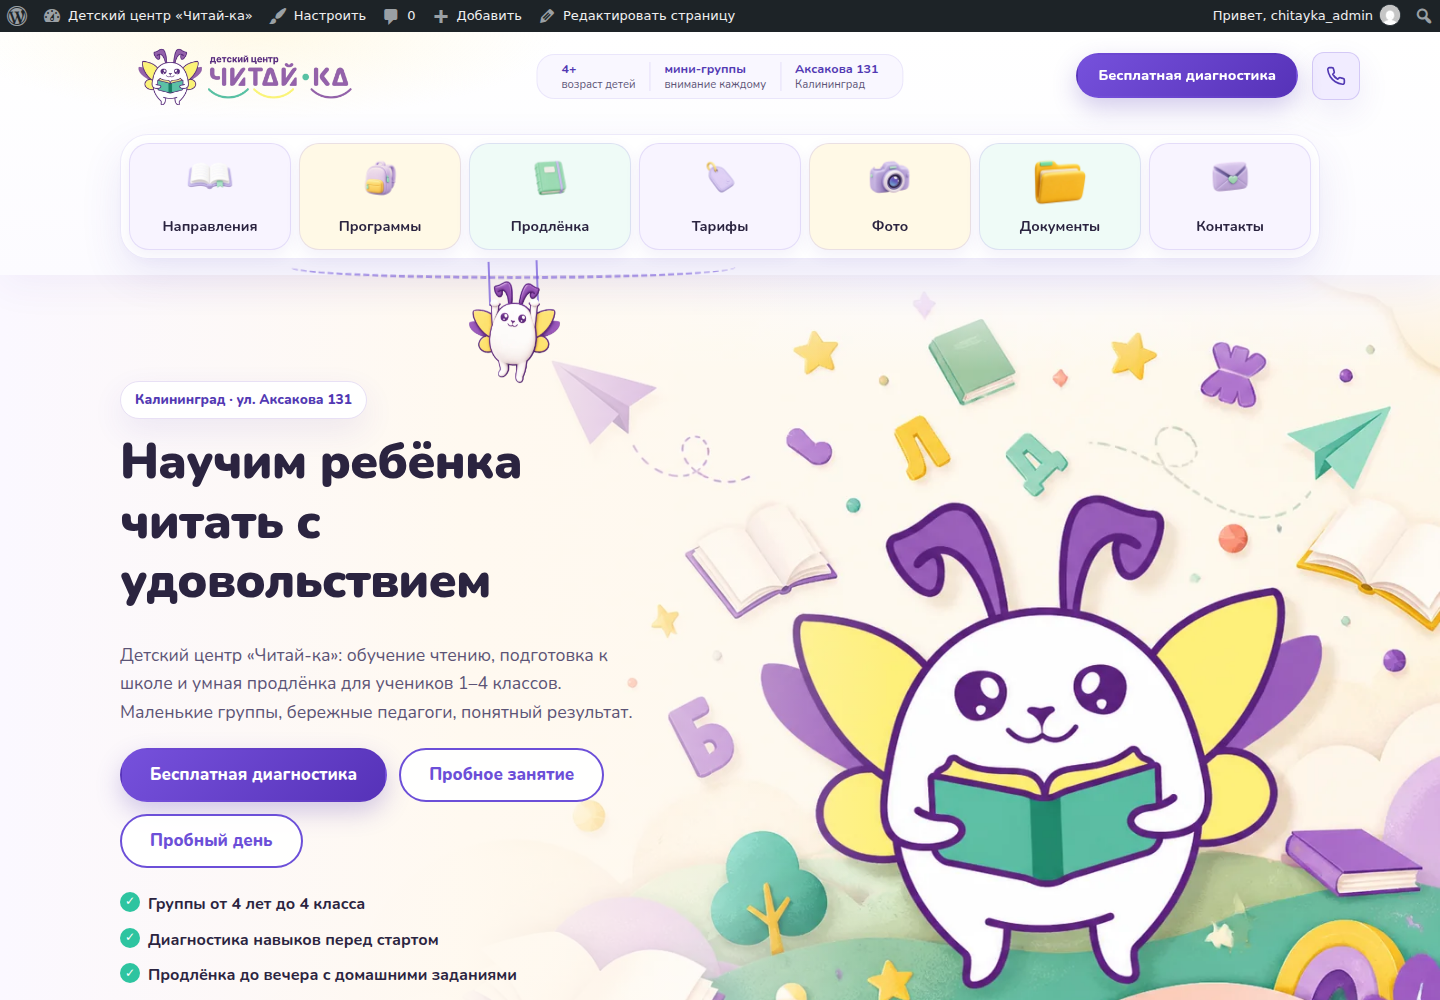
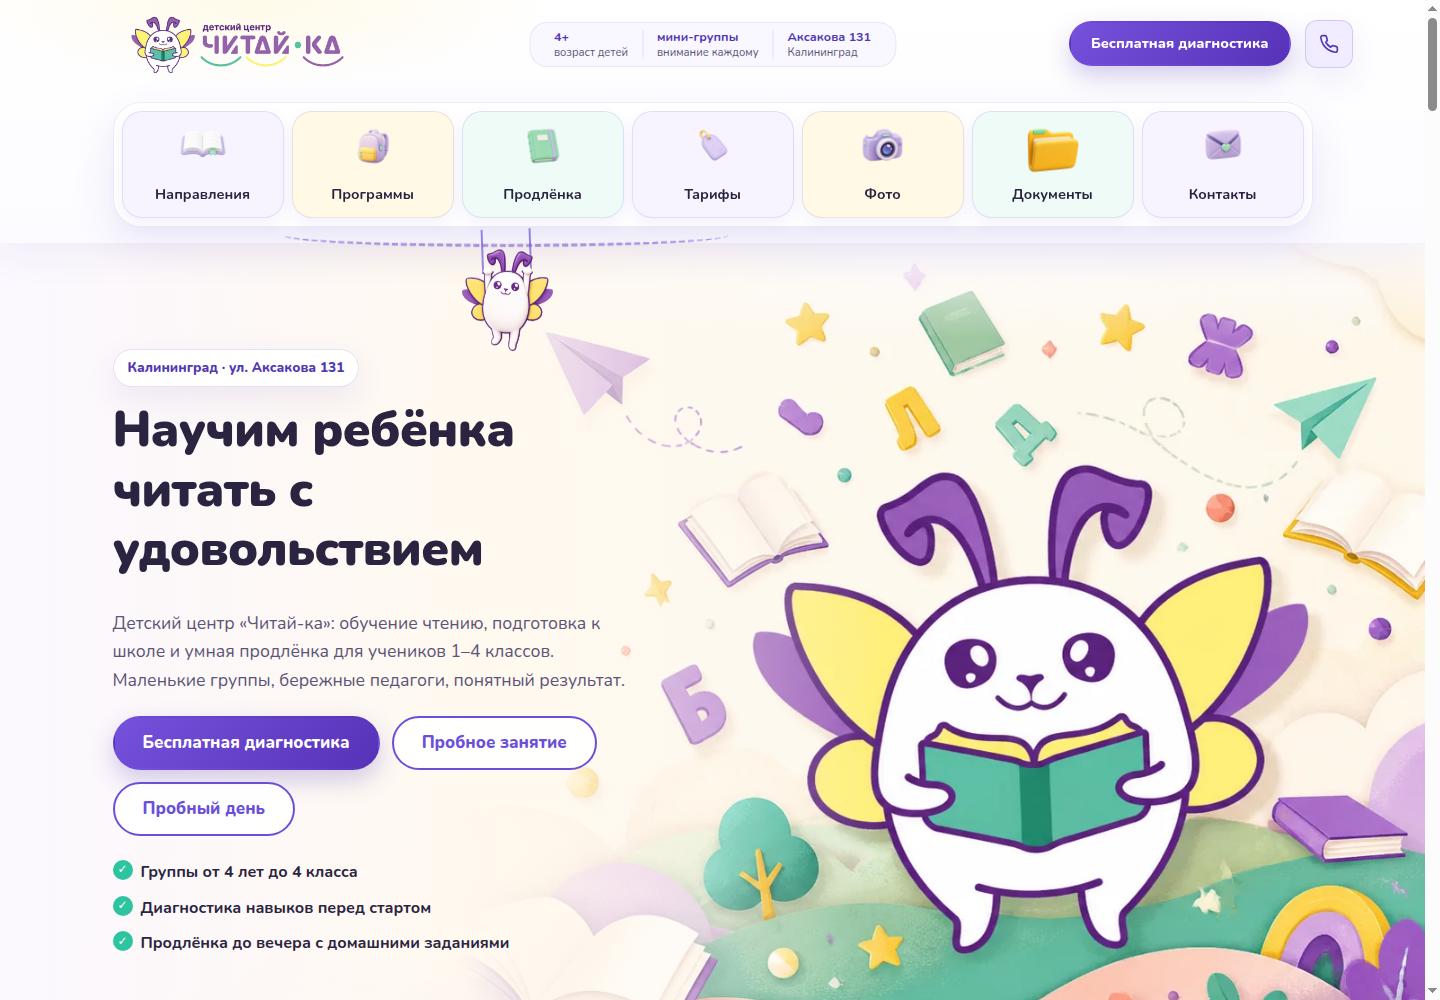
portfolio: rebuild Chitayka case images from live screens

diff --git a/portfolio-package/IMAGE_PROMPTS.md b/portfolio-package/IMAGE_PROMPTS.md
@@ -1,16 +1,66 @@
 # IMAGE_PROMPTS
 
-## Сгенерированный декоративный фон
+## Источники
 
-- Инструмент: встроенный `image_gen`.
-- Результат: `generated-brand-background.png`.
-- Роль: фоновый слой для обложки кейса; интерфейс сайта и весь текст на финальной инфографике наложены отдельно из реальных скриншотов.
+Серия пересобрана 10.09.2026 по свежим фактическим скриншотам:
 
-### Финальный prompt
+- `screenshots/01-hero-desktop.png` — production, первый экран desktop;
+- `screenshots/02-directions-desktop.png` — production, направления;
+- `screenshots/03-first-visit-desktop.png` — production, первое занятие;
+- `screenshots/05-prices-desktop.png` — production, тарифы;
+- `screenshots/06-mobile-hero.png` — production, первый экран mobile;
+- `screenshots/08-wordpress-editor.png` — реальный редактор `ЧИТАЙ-КА` в WordPress без верхней панели пользователя;
+- `screenshots/start-before.png` — подтверждённая ранняя версия сайта.
+
+Для композиционной иерархии использован референс инфографики пользователя. Тёмная палитра референса не переносилась: серия выполнена в фирменных цветах «Читай-ки».
+
+Инструмент всех четырёх кадров: встроенный `image_gen`. Интерфейсы должны оставаться узнаваемыми и фактически соответствовать исходным скриншотам; выдуманные функции и метрики запрещены.
+
+## 00-cover.png
 
 ```text
 Use case: infographic-diagram.
-Asset type: decorative background layer for a portfolio case cover about a children's education center website.
-Create a polished airy premium landscape background in the supplied mascot's friendly brand style. Preserve one small recognizable mascot at the lower-right edge reading the green book: white oval body, purple antennae and outlines, yellow-purple wings, large purple eyes. Use an ivory-to-pale-lilac gradient with soft layered hills, open books, stars, paper airplane, mint notebook and rounded translucent shapes near the outer edges. Leave the central and left 65% calm and uncluttered for later typography and real website screenshots. Refined soft 3D clay/paper illustration, subtle depth and soft shadows. Palette: deep purple, lilac, mint, warm yellow, cream, restrained coral. No text, no logo, no words, no people, no UI mockups, no watermark, no busy confetti, no dark background, no duplicated limbs.
+Asset type: portfolio case cover, 4:3 landscape, 1600×1200.
+Create a professional cover for the children's center «Читай-ка». Use the real production homepage screenshot as the dominant visual in a browser frame. Official palette: cream, white, deep purple, lilac, mint and warm yellow.
+Text: «ДЕТСКИЙ ЦЕНТР „ЧИТАЙ-КА“», «Сайт с характером и удобным управлением», «Адаптивная версия», «10 редактируемых секций», «3 сценария записи», «WordPress · PHP · HTML · CSS · JavaScript», «ИТ-Бизнес-партнер · Суязов Артем».
+No children photos, private data, invented metrics or fictional UI.
 ```
 
+## 01-start.png
+
+```text
+Use case: infographic-diagram.
+Asset type: initial-state portfolio frame, 4:3 landscape, 1600×1200.
+Use the real early-version screenshot as the dominant factual visual with callout lines to visible layout areas.
+Text: «С чего начинали», «Рабочая версия требовала единой системы», «Разрозненная композиция», «Пустой блок преимуществ», «Навигация и тарифы требовали переработки», «Задача: собрать цельную структуру и сохранить фирменный характер», «ИТ-Бизнес-партнер · Суязов Артем».
+Do not present the final result or invent UI.
+```
+
+## 02-work.png
+
+```text
+Use case: infographic-diagram.
+Asset type: implementation portfolio frame, 4:3 landscape, 1600×1200.
+Use the real WordPress editor as the primary screenshot and the real production directions section as a supporting inset. Explain how the editor follows the public page order.
+Text: «Как устроено решение», «Публичный сайт и редактор работают как одна система», «10 секций в порядке страницы», «Включение и отключение блоков», «Редактирование без работы с кодом», «WordPress · кастомная PHP-тема», «РЕДАКТОР», «САЙТ», «ИТ-Бизнес-партнер · Суязов Артем».
+Do not expose usernames, passwords or private data. Do not invent controls.
+```
+
+## 03-result.png
+
+```text
+Use case: infographic-diagram.
+Asset type: verified-result portfolio frame, 4:3 landscape, 1600×1200.
+Use the real current desktop homepage, real mobile view and real tariffs section. Desktop is dominant; mobile and tariffs are supporting frames.
+Text: «Что получил центр», «Опубликованный сайт на домене клиента», «Адаптивные версии», «Тарифы, карта и формы записи», «Контент можно обновлять самостоятельно», «Сайт работает по HTTPS», «ИТ-Бизнес-партнер · Суязов Артем».
+No children photos, private data, testimonials, invented metrics or fictional UI.
+```
+
+## Проверка
+
+- итоговые файлы: ровно четыре PNG;
+- размер каждого: 1600×1200;
+- последовательность: обложка → исходная ситуация → реализация → результат;
+- водяной знак присутствует на каждом кадре;
+- реальные интерфейсы сайта и WordPress использованы как визуальная основа;
+- детские фотографии, контакты администратора, логины, пароли и неподтверждённые метрики отсутствуют.

diff --git a/AGENTS.md b/AGENTS.md
@@ -27,7 +27,7 @@ WordPress, кастомная тема `wp-content/themes/chitayka`. Mobile-firs
 - `PUBLIC_CASE.md` содержит полный текст, короткий абзац, описание для AFFiNE и заголовок Workzilla; `FACTS.md` отделяет подтверждённые факты от неподтверждённых метрик.
 - Итоговая серия всегда состоит ровно из четырёх PNG 1600×1200 в `portfolio-package/final/`: `00-cover.png`, `01-start.png`, `02-work.png`, `03-result.png`.
 - В серии используются реальные безопасные скриншоты production-сайта, ранней версии и отдельного редактора WordPress. Кадры с контактами и фотографиями детей не включать без отдельного разрешения на публичное использование.
-- Декоративный фон `generated-brand-background.png` создан через встроенный imagegen; он не заменяет реальные скриншоты интерфейса.
+- 10.09.2026 серия пересобрана встроенным `image_gen` по свежим production-скриншотам desktop/mobile и реальному экрану редактора WordPress. Принятые кадры приведены к 1600×1200; прежняя серия остаётся восстановимой из истории Git.
 
 ## Клиентский preview
 - URL: `https://chitayka.sy3.ru/`.

diff --git a/portfolio-package/PUBLISH_CHECKLIST.md b/portfolio-package/PUBLISH_CHECKLIST.md
@@ -7,8 +7,8 @@
 - [x] Не заявлено подключение CRM.
 - [x] На публичных изображениях нет паролей, токенов и банковских реквизитов.
 - [x] Скриншот WordPress не показывает пароль или e-mail администратора.
-- [x] Подготовлены desktop-, mobile- и WordPress-скриншоты.
-- [x] Финальная инфографика основана на реальных production-экранах.
-- [x] Декоративный AI-фон не подменяет реальный интерфейс сайта.
-- [ ] После принятия выполнить end-to-end intake в домен AFFiNE Portfolio и проверить GitHub mirror.
+- [x] Свежие desktop-, mobile- и WordPress-скриншоты сняты с production 10.09.2026.
+- [x] Финальная инфографика пересобрана встроенным `image_gen` на основе реальных production-экранов и редактора WordPress.
+- [x] Реальные интерфейсы остаются главным визуалом; декоративные элементы не подменяют сайт или админку.
+- [x] Выполнен end-to-end intake в домен AFFiNE Portfolio и проверен GitHub mirror.
 - [ ] После публикации проверить страницу кейса, список портфолио, sitemap.xml, llms.txt, sales feed, ссылку в меню и доступность изображений.
